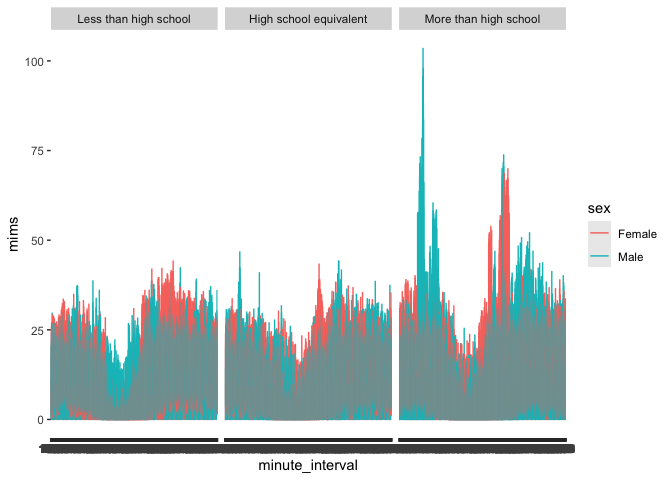
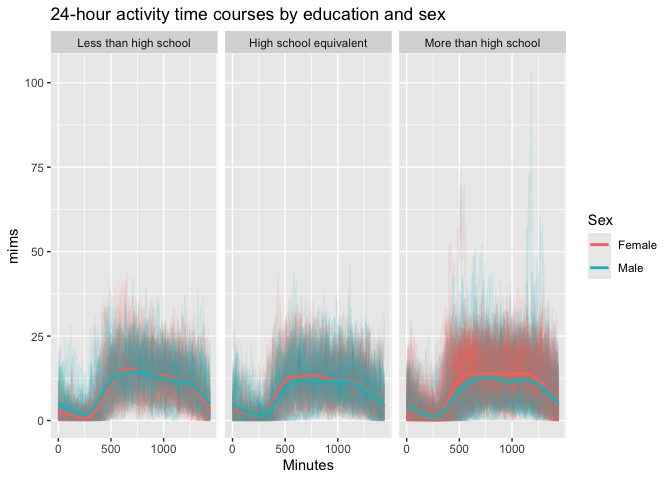
updated visualizations

diff --git a/p8105_hw3_mk4995.md b/p8105_hw3_mk4995.md
@@ -18,7 +18,10 @@ accel_df =
     names_to = "minute_interval",
     names_prefix = "min",
     values_to = "mims"
-  ) # Pivot these columns 
+  ) |> # Pivot these columns 
+  mutate(
+    minute_interval = as.numeric(minute_interval)
+  )
 
 covar_df = 
   read_csv("data/nhanes_covar.csv", skip = 4) |> # skip first 4 rows
@@ -120,7 +123,7 @@ merged_df |>
   distinct(seqn, .keep_all = TRUE) |> 
   ggplot(aes(x = age, y = total_mims, color = sex)) +
   geom_point() +
-  geom_smooth(se = FALSE) +
+  geom_smooth(method = "loess") +
   facet_grid(. ~ education) +
   theme(legend.position = "bottom") +
   labs(
@@ -133,7 +136,7 @@ merged_df |>
 
     ## `summarise()` has grouped output by 'seqn', 'sex', 'age'. You can override
     ## using the `.groups` argument.
-    ## `geom_smooth()` using method = 'loess' and formula = 'y ~ x'
+    ## `geom_smooth()` using formula = 'y ~ x'
 
 ![](p8105_hw3_mk4995_files/figure-gfm/unnamed-chunk-2-1.png)<!-- -->
 
@@ -147,12 +150,23 @@ compared to those with less education.
 
 ``` r
 merged_df |> 
-  group_by(sex, education) |> 
-  ggplot(aes(x = minute_interval, y = mims, color = sex)) +
-  geom_line(se = FALSE) + 
-  facet_grid(. ~ education)
+  ggplot(aes(x = minute_interval, y = mims, group = seqn, color = sex)) +
+  geom_line(alpha = 0.1) + 
+  geom_smooth(aes(group = sex), se = FALSE) +
+  facet_grid(. ~ education) +
+  labs(
+    title = "24-hour activity time courses by education and sex",
+    x = "Minutes",
+    Y = "Activity",
+    color = "Sex"
+  ) +
+  scale_x_continuous(
+    breaks = c(0, 500, 1000),
+    limits = c(0, 1440),
+    labels = c("0", "500", "1000")
+  )
 ```
 
-    ## Warning in geom_line(se = FALSE): Ignoring unknown parameters: `se`
+    ## `geom_smooth()` using method = 'gam' and formula = 'y ~ s(x, bs = "cs")'
 
 ![](p8105_hw3_mk4995_files/figure-gfm/unnamed-chunk-3-1.png)<!-- -->
